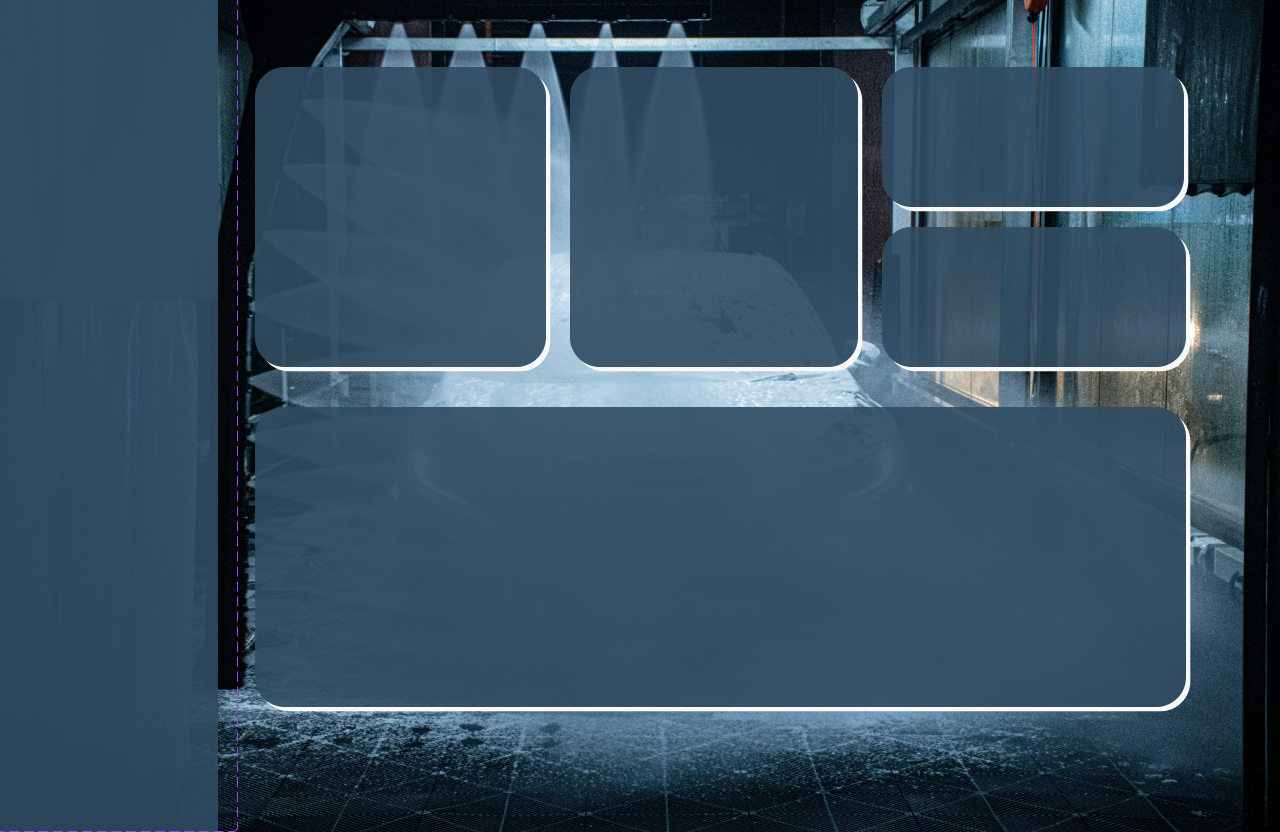
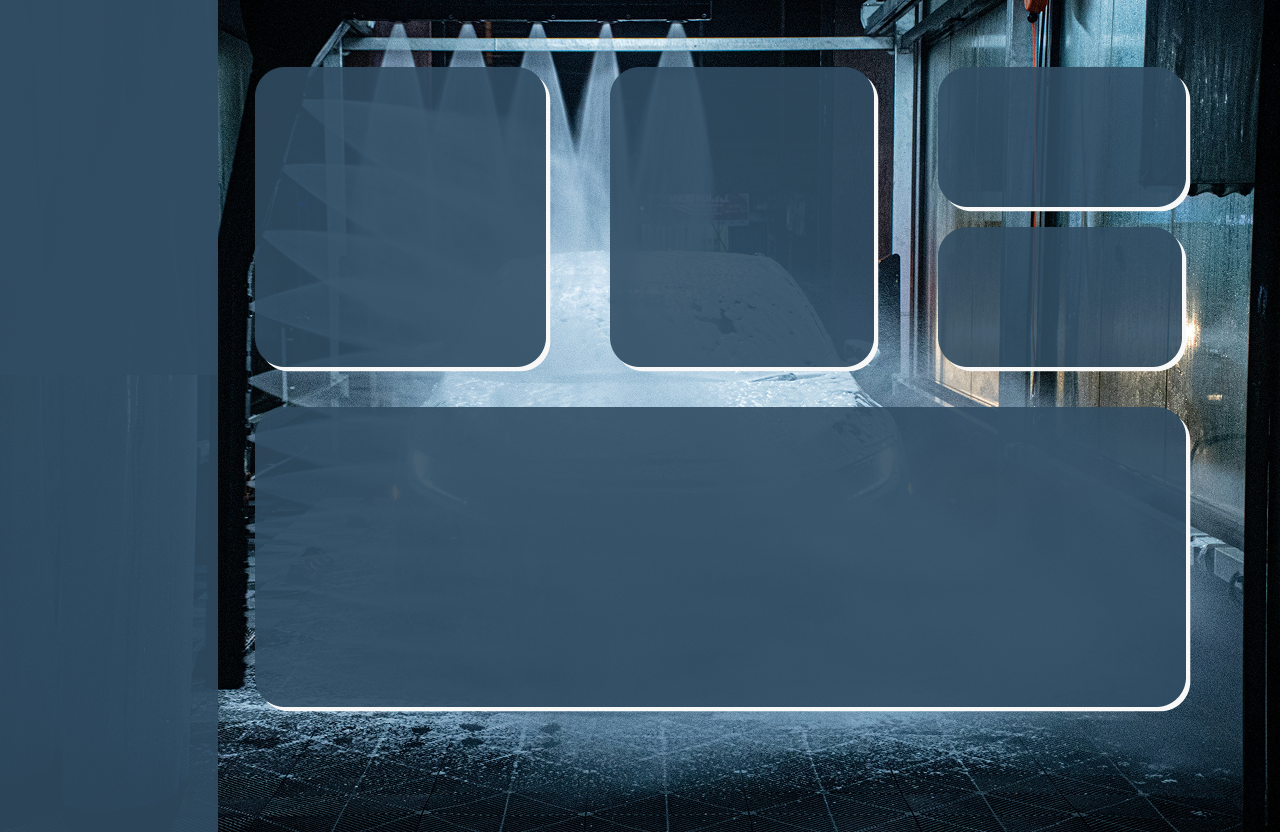
listar funcionarios

diff --git a/view/lista_funcionarios.py b/view/lista_funcionarios.py
@@ -1,0 +1,121 @@
+import tkinter as tk
+import customtkinter as ctk
+
+# Configuração inicial do tema
+ctk.set_appearance_mode("dark")
+
+class App(ctk.CTk):
+    def __init__(self):
+        super().__init__()
+
+        self.title("Gerenciamento de Funcionários")
+        self.geometry("1050x650")
+        self.configure(fg_color="#1a2b3c") # Tom azul escuro de fundo
+
+        # --- CONTAINER PRINCIPAL ---
+        self.main_container = ctk.CTkFrame(self, fg_color="#243b53", corner_radius=25)
+        self.main_container.pack(padx=40, pady=40, fill="both", expand=True)
+
+        # --- TOPO: Barra de Pesquisa e Botão Cadastrar ---
+        self.top_frame = ctk.CTkFrame(self.main_container, fg_color="transparent")
+        self.top_frame.pack(fill="x", padx=35, pady=(35, 25))
+
+        # Campo de Pesquisa
+        self.search_entry = ctk.CTkEntry(
+            self.top_frame, 
+            placeholder_text="Pesquisar CPF", 
+            width=400, 
+            height=42,
+            corner_radius=20,
+            fg_color="#1a2b3c",
+            border_color="#486581",
+            placeholder_text_color="#9fb3c8"
+        )
+        self.search_entry.pack(side="left")
+
+        # Botão Cadastrar Funcionário
+        self.btn_cadastrar = ctk.CTkButton(
+            self.top_frame, 
+            text="Cadastrar funcionário +", 
+            height=42,
+            corner_radius=20,
+            fg_color="transparent",
+            border_width=1,
+            border_color="#ffffff",
+            text_color="#ffffff",
+            hover_color="#486581",
+            font=("Arial", 13, "bold")
+        )
+        self.btn_cadastrar.pack(side="right")
+
+        # --- TABELA DE FUNCIONÁRIOS ---
+        self.table_frame = ctk.CTkScrollableFrame(self.main_container, fg_color="transparent")
+        self.table_frame.pack(fill="both", expand=True, padx=35, pady=(0, 35))
+
+        # SOLUÇÃO DO ERRO: Criamos um frame interno estável para gerenciar o Grid perfeitamente
+        self.grid_container = ctk.CTkFrame(self.table_frame, fg_color="transparent")
+        self.grid_container.pack(fill="both", expand=True)
+
+        # Força as colunas a se distribuírem igualmente dentro do container do grid
+        for i in range(5):
+            self.grid_container.grid_columnconfigure(i, weight=1)
+        self.grid_container.grid_columnconfigure(5, weight=0) # Coluna de ações fixa na direita
+
+        # Cabeçalho das Colunas
+        headers = ["Nome", "E-mail", "Telefone", "CPF", "Usuário", ""]
+        for col_idx, header in enumerate(headers):
+            if header: 
+                lbl = ctk.CTkLabel(
+                    self.grid_container, 
+                    text=header, 
+                    font=("Arial", 14, "bold"), 
+                    text_color="#ffffff"
+                )
+                lbl.grid(row=0, column=col_idx, pady=(10, 20), padx=10, sticky="w")
+
+        # Dados fictícios idênticos à estrutura visual da imagem
+        dados_ficticios = [
+            ("Nome", "E-mail", "Telefone", "CPF", "Usuário"),
+            ("Nome", "E-mail", "Telefone", "CPF", "Usuário"),
+            ("Nome", "E-mail", "Telefone", "CPF", "Usuário"),
+            ("Nome", "E-mail", "Telefone", "CPF", "Usuário"),
+            ("Nome", "E-mail", "Telefone", "CPF", "Usuário"),
+            ("Nome", "E-mail", "Telefone", "CPF", "Usuário"),
+            ("Nome", "E-mail", "Telefone", "CPF", "Usuário"),
+        ]
+
+        # Renderizar as linhas da tabela
+        for row_idx, data in enumerate(dados_ficticios, start=1):
+            # Dados textuais
+            for col_idx, text in enumerate(data):
+                lbl = ctk.CTkLabel(
+                    self.grid_container, 
+                    text=text, 
+                    font=("Arial", 14, "bold"), 
+                    text_color="#ffffff"
+                )
+                lbl.grid(row=row_idx, column=col_idx, pady=18, padx=10, sticky="w")
+
+            # Coluna de Ações (Botões Circulares)
+            actions_frame = ctk.CTkFrame(self.grid_container, fg_color="transparent")
+            actions_frame.grid(row=row_idx, column=5, pady=18, padx=(10, 20), sticky="e")
+
+            # Botão Editar (Lápis)
+            btn_edit = ctk.CTkButton(
+                actions_frame, text="✏️", width=34, height=34, corner_radius=17,
+                fg_color="#bcccdc", text_color="#102a43", hover_color="#9fb3c8",
+                font=("Arial", 12)
+            )
+            btn_edit.pack(side="left", padx=6)
+
+            # Botão Avançar (Seta)
+            btn_next = ctk.CTkButton(
+                actions_frame, text="➔", width=34, height=34, corner_radius=17,
+                fg_color="#bcccdc", text_color="#102a43", hover_color="#9fb3c8",
+                font=("Arial", 12)
+            )
+            btn_next.pack(side="left", padx=6)
+
+if __name__ == "__main__":
+    app = App()
+    app.mainloop()